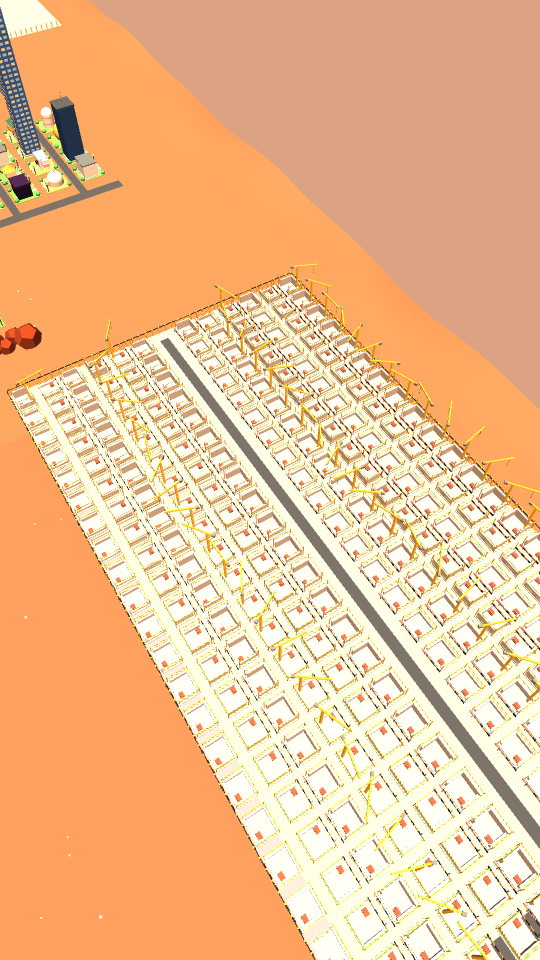
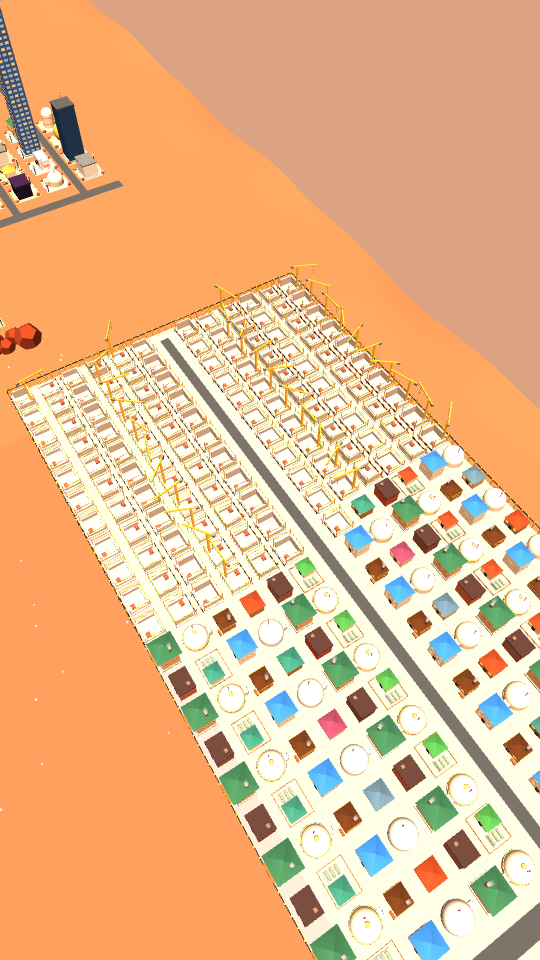
Map: 722 homes total, promzona 127 sites, 128 new homes without nicks
Claude-Session: https://claude.ai/code/session_016pR9oEj5MWHV9PKkxUgw4F

diff --git a/render/karta/index.html b/render/karta/index.html
@@ -781,13 +781,13 @@ const gt=new THREE.Group();[-6,6].forEach(x=>box(gt,1,8,1,0x3a3f48,x,4,0));box(g
 const slots=[];for(let r=0;r<10;r++)for(const x of[258,270,276,288,294,306,312,324,330,342].filter((v,i)=>i%2===0||true))slots.push([x,PZZ-58+r*12]);
 const S2=[];for(let r=0;r<10;r++)[258,270,288,306,324,342].forEach(x=>{if(Math.abs(x-264)<4||Math.abs(x-282)<4)return;S2.push([x+(x<264?0:0),PZZ-58+r*12])});
 const SL=[];for(let r=0;r<26;r++)[258,265,272,279,286,293,307,314,321,328,335,342].forEach(x=>SL.push([x,PZZ-94+r*7.5]));
-for(let r=0;r<9;r++)for(let x=262;x<=346;x+=7)SL.push([x,-412+r*7.5]);
-{const g2=new THREE.Mesh(new THREE.PlaneGeometry(94,72),new THREE.MeshLambertMaterial({color:0x8a8f98,polygonOffset:true,polygonOffsetFactor:-1,polygonOffsetUnits:-2}));g2.rotation.x=-1.5708;g2.position.set(304,.03,-382);sc.add(g2);for(let i=0;i<=40;i++){box(sc,.3,2.4,.3,0xf2c230,257+i*94/40,1.2,-418);box(sc,.3,2.4,.3,0xf2c230,257+i*94/40,1.2,-346)}const gt2=new THREE.Group();[-6,6].forEach(x=>box(gt2,1,8,1,0x3a3f48,x,4,0));box(gt2,13,2.8,.6,0x1d2a44,0,8.4,0);lab(gt2,'ПРОМЗОНА-2',12,1.3,'#1d2a44','#f7c24a',0,8.9,.32);lab(gt2,'ТВОЙ ДОМ УЖЕ СТРОИТСЯ',12,.9,'#f7c24a','#1a1410',0,7.6,.32);gt2.position.set(304,0,-344);sc.add(gt2)}
 let k=0;const put=(g,h)=>{const sl=SL[k++];if(!sl){g.visible=false;return}g.scale.setScalar(.62);g.position.set(sl[0],0,sl[1]);g.rotation.y=sl[0]%18<9?-Math.PI/2:Math.PI/2;g.visible=true;if(h){h.x=sl[0];h.z=sl[1];h.top=4;h.district=sl[1]<-300?'Промзона-2':'Промзона'}};
 MLIST.filter(h=>h.site).forEach(h=>{put(h.g,h);h.kind='стройка — ждёт комментарий (TikTok)'});
-const YT_SUBS=722,YT_HOMES=430;// обновлять: подписчики YouTube и жители YouTube с домами
-for(let i=0;i<YT_SUBS-YT_HOMES;i++){const g=mk('site');sc.add(g);const h={n:'',anon:1,site:1,g,top:6,kind:'стройка — ждёт комментарий (YouTube)',day:10,district:'Промзона'};put(g,h);MLIST.push(h)}
-for(let i=0;i<49;i++){const g=mk('site');sc.add(g);const h={n:'',anon:1,site:1,g,top:6,kind:'стройка — ждёт комментарий (TikTok)',day:4,district:'Промзона'};put(g,h);MLIST.push(h)}}
+const PZ_TOTAL=127,NEW_HOMES=128;// промзона всего 127 строек; 128 готовых домов подписчиков без ника → всего 722 дома на карте
+const PZ_YT=PZ_TOTAL-MLIST.filter(h=>h.site).length-49;
+for(let i=0;i<PZ_YT;i++){const g=mk('site');sc.add(g);const h={n:'',anon:1,site:1,g,top:6,kind:'стройка — ждёт комментарий (YouTube)',day:10,district:'Промзона'};put(g,h);MLIST.push(h)}
+for(let i=0;i<49;i++){const g=mk('site');sc.add(g);const h={n:'',anon:1,site:1,g,top:6,kind:'стройка — ждёт комментарий (TikTok)',day:4,district:'Промзона'};put(g,h);MLIST.push(h)}
+const HT=['izba','brick','dacha','two','dome','cottage','kupol','banya'];for(let i=0;i<NEW_HOMES;i++){const g=mk(HT[i%HT.length]);sc.add(g);const h={n:'',anon:1,g,top:6,kind:'дом подписчика — ник появится после комментария',day:10,district:'Новостройки'};put(g,h);h.district='Новостройки';h.top=4.5;MLIST.push(h)}}
 
 NEW3.forEach(h=>{if(h.fx)h.fx.forEach(f=>f.visible=false);h.rg.visible=false;if(h.deco)h.deco.visible=true});FWP.visible=false;SNOW.visible=false;DAN.fm.visible=false;PZ.visible=false;RK.visible=false;HERO.fm.visible=false;GD.forEach(d=>d.visible=false);
 sun.target.position.set(110,0,-160);sun.position.set(80,140,-110);{const c=sun.shadow.camera;c.left=-240;c.right=240;c.top=240;c.bottom=-240;c.far=500;c.updateProjectionMatrix()}

diff --git a/render/karta/README.md b/render/karta/README.md
@@ -20,3 +20,4 @@
 ## Журнал обновлений
 - 2026-11-10: квартал «10 ноября» — 174 жителя из комментариев YouTube к выпускам 4–9 (собраны `render/kommentarii/sobrat.py`, разобраны в `render/kommentarii/out/zhiteli-10.json`). Блок `YouTube: жители из комментариев 10 ноября` перед «ОПТИМИЗАЦИЕЙ»; места: полоса z −214…−181 (x 6…259), юго-восток z 206…283 (x 258…346), север z −380…−356. `MAPCFG.days.max` 8 → 10. Пропущены 2 ника (реклама, оскорбление).
 - 2026-11-10: промзона под 722 подписчика YouTube (`YT_SUBS`, `YT_HOMES` в блоке ПРОМЗОНА — обновлять числа): плотная сетка 12×26 + «Промзона-2» на севере, участки в масштабе 0.62; одна центральная дорога. Модели особых просьб (`P10`: унитаз, печенька, банки, морковь/перец, кекс, сердце, гусь, самолёт, ракета, чёрная дыра, дом на дереве, шестерня, молоток, Nokia, свинья, бедрок, Сквидвард, ананас Спанч Боба, перевёрнутый дом, буквы Z/V, дом на колёсах, 2Fort, статуя, Марвел, магический дом, трава, штаб, артиллерия). Блок «УЮТ»: марсианская плитка, дорожка, фонарь, камни, заборчик (без зелени) у каждого жилого дома. Сохранён лендинг `go/index.html` из архива.
+- 2026-11-10: по решению автора — 722 дома на карте (256 YouTube + 164 TikTok + 174 квартал 10 ноября + 128 «Новостройки»: готовые дома подписчиков без ника) и промзона 127 строек (`PZ_TOTAL`, `NEW_HOMES` в блоке ПРОМЗОНА). «Промзона-2» убрана.
